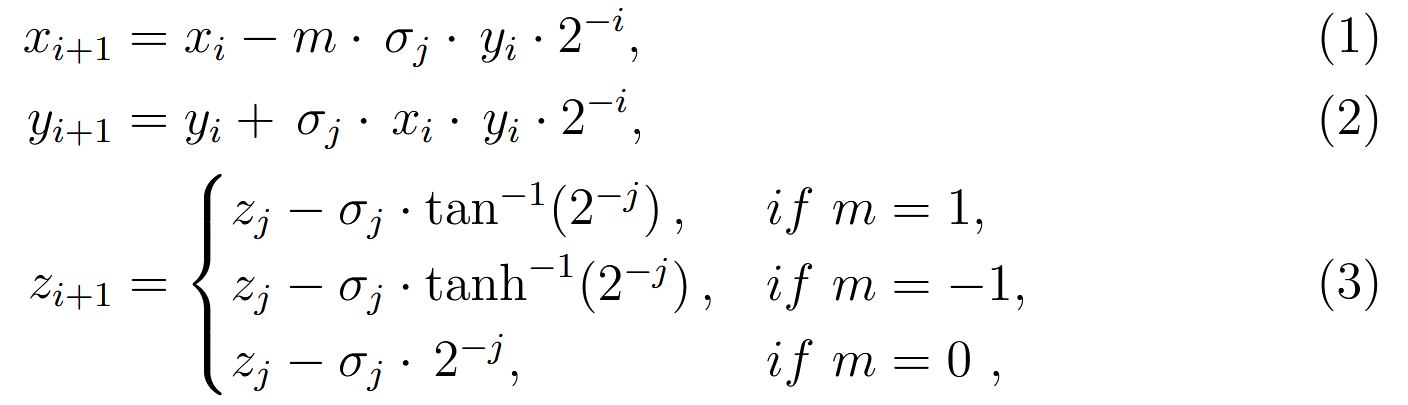
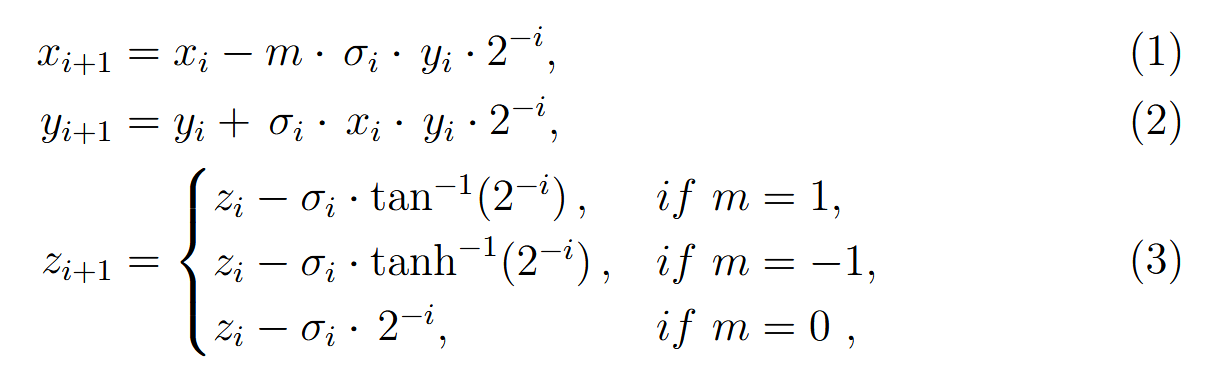
fixing typos, cordic equation was not consistent

diff --git a/docs/info.md b/docs/info.md
@@ -33,7 +33,7 @@ This algorithm is often covered in standard textbooks and notes [4, 5]; therefor
 Key ideas for using it : 
 - Inputs/outputs: provide initial ($x_0, y_0, z_0$) via registers (exposed as A, B and the third value is determined automatically). Every iteration, the output changes and provides some value  
 - In its most basic functionality, CORDIC has three distinct modes of operation: Circular (m = 1), Linear (m = 0) and Hyperbolic (m = -1). 
-- Each of these three modes has two submodes: this configures which of the values we will drive towards zero and is represented by $\sigma_j$. These modes are known as Rotation ($\sigma_{j} = sign(z_j)^{+}$) and Vectoring ($\sigma_{j} = -sign(y_j)^{+}$)
+- Each of these three modes has two submodes: this configures which of the values we will drive towards zero and is represented by $\sigma_j$. These modes are known as Rotation ($\sigma_{i} = sign(z_i)^{+}$) and Vectoring ($\sigma_{i} = -sign(y_i)^{+}$)
 
 
 ### Operating modes 
@@ -48,14 +48,14 @@ Let $A, B$ be the register inputs and $out1, out2$ the outputs.
 | 1    | Vectoring      |  a    | b |$K_{C} \sqrt{a^2+b^2}$|$tan^{-1}(\frac{b}{a})$|
 | 0    | Rotating     |   a    | b |$a \cdot b$| error $\epsilon$|
 | 0    | Vectoring |   a    | b | $\frac{b}{a}$| error $\epsilon$|
-| -1    | Rotating      |   a    | b | $cosh(a)$ | $sinh(a)$|
-| -1    | Vectoring     |   a    |  b | $K_{C} \sqrt{a^2 - b^2}$ |$tanh^{-1}(\frac{b}{a})$|
+| -1    | Rotating      |   a    | - | $cosh(a)$ | $sinh(a)$|
+| -1    | Vectoring     |   a    |  b | $K_{H} \sqrt{a^2 - b^2}$ |$tanh^{-1}(\frac{b}{a})$|
 | -1    | Vectoring    |   a + 1.0    | a - 1.0 |$2 K_{H}\sqrt{a}$|error $\epsilon$|
 
 ### Note about Scaling
 - The rotating path returns the values directly and can be interpreted right away (pre-scaling).
 - For vectoring, circular mode, the output has to be post-scaled. The output will be multiplied by the circular gain/constant $K_C \approx 1.646760$; therefore, to get the exact value, the user has to multiply by the inverse of that.  
-- Simillarly, hyperbolic rotating output values directly. Vectoring mode, however, outputs again values multiplied by  Hyperbolic gain/constant: $K_H \approx 1.207497$.  
+- Simillarly, hyperbolic rotating output values directly. Vectoring mode, however, outputs again values multiplied by Hyperbolic gain/constant: $K_H \approx 1.207497$.  
 - $\epsilon$ here can help check whether the output is correct or not. It should be close to 0 if the values are set correctly
 
 ### References
@@ -96,10 +96,10 @@ Document the registers that are used to interact with your peripheral
 
 | Address | Name         | Access | Description |
 |--------:|--------------|:------:|-------------|
-| 0x00    | config       |  R/W   | Control bits {is_rot, mode[1:0], en}. See §Config (0x00). |
+| 0x00    | config       |  R/W   | Control bits {is_rot, mode[1:0], start}. See §Config (0x00). |
 | 0x01    | input A      |   W    | Operand A (per-mode; see details). |
 | 0x02    | input B      |   W    | Operand B (per-mode; see details). |
-| 0x03    | 1.0 position |   W    | Q-format selector (e.g., 11 ⇒ Q5.11; 14 ⇒ Q2.14). |
+| 0x03    | 1.0 position |   W    | Q-format selector (e.g., 11 -> Q5.11; 14 -> Q2.14). |
 | 0x04    | output 1     |   R    | Primary result. |
 | 0x05    | output 2     |   R    | Secondary result / diagnostic. |
 | 0x06    | status       |   R    | 0=ready, 1=busy, 2=done. |
@@ -121,7 +121,7 @@ Document the registers that are used to interact with your peripheral
 -  __Linear and Rotating mode__: Multiplicand a represented in fixed point format. To control the position of 1.0, you need to use register 0x03. To give an example,  if register 0x03 is set to 11, this input (a) and input (b) represent the value in Q5.11 format.
 - __Linear and Vectoring mode__: Denominator a for $\frac{b}{a}$. Same Q-format for Linear Rotating mode.
 - __Hyperbolic and Rotating mode__ : Argument a for sinh / cosh. Represented as Q2.14. Range limitation : [-1.1161, 1.1161].  
-- __Hyperbolic and Vectoring mode__ :  first input a for $\sqrt{a^2 - b^2}$. The Output here can represent any fixed point __as long as it is greater than then second input B__ ($\sqrt{a^2 -b^2}$ becomes undefined then), because the Output is __not scaled__ (not multiplied by $K_{1}$ due to resource limitations). It is up to user to either multiply by $K_{1}\approx \frac{1}{0.82816} \approx 1.207496$ or use it the computed value of $K_{1} \sqrt{a^{2} - b^{2}}$. <br>
+- __Hyperbolic and Vectoring mode__ :  first input a for $\sqrt{a^2 - b^2}$. The Output here can represent any fixed point __as long as it is greater than then second input B__ ($\sqrt{a^2 -b^2}$ becomes undefined then), because the Output is __not scaled__ (not multiplied by inverse of $K_{H}$ due to resource limitations). It is up to user to either multiply by $\frac{1}{K_{H}} \approx \frac{1}{0.82816} \approx 1.207496$ or use it the computed value of $K_{H} \sqrt{a^{2} - b^{2}}$. <br>
 
 ### input B (0x02)
 - __Circular and Rotating mode__ : Ignored. 
@@ -129,17 +129,18 @@ Document the registers that are used to interact with your peripheral
 - __Linear and Rotating mode__: Multiplicand b in variable fixed point format: to control where the position of 1.0 is. To give an example,  if register 0x03 is set to 11, this input (a) and input (B) represent a value in Q5.11 format.
 - __Linear and Vectoring mode__: b represents Numerator ($\frac{b}{a}$) in variable fixed point format. To control the position of 1.0, you have to use register 0x03. To give an example,  if register 0x03 is set to 11, this input (b) and input (a) represent a value in Q5.11 format. 
 - __Hyperbolic and Rotating mode__ Ignored. 
-- __Hyperbolic and Vectoring mode__ :  Second value B for hyperbolic mode. This value must be smaller than A; otherwise, the result will be incorrect. The Output here can represent any fixed point. The Output is __not scaled__ (not multiplied by $K_{1}$ due to resource limitations). It is up to user to either multiply by $K_{1}\approx \frac{1}{0.82816} \approx 1.207496$ or use it the computed value of $K_{1} \sqrt{A^{2} - B^{2}}$.
+- __Hyperbolic and Vectoring mode__ :  Second value B for hyperbolic mode. This value must be smaller than A; otherwise, the result will be incorrect. The Output here can represent any fixed point. The Output is __not scaled__ (not multiplied by inverse of $K_{H}$ due to resource limitations). It is up to user to either multiply by $\frac{1}{K_{H}} \approx \frac{1}{0.82816} \approx 1.207496$ or use it the computed value of $K_{H} \sqrt{a^{2} - b^{2}}$.
 
 # Q-format (1.0 position) (0x03)
 - This value stores the number of fractional bits (for example, 10 -> Q6.10 in 16-bit mode). This register is used for linear modes and outputs in this format.
 
 ### Output 1 (0x04)
- - __Circular and Rotating mode__ : returns cos(a), stored in Q2.14 format. 
- -  __Circular and Vectoring mode__: returns $K_{C} \cdot \sqrt{A^2 + B^2}$ where $K_{C} = 1.64676$.
- -  __Linear and Rotating mode__: returns $A \cdot B$ in a fixed float format configured by the register 0x03. <br> - __Linear and Vectoring mode__: returns $\frac{B}{A}$ in a fixed float format by the register 0x03. 
- - __Hyperbolic and Rotating mode__ : returns cosh(A) stored in Q2.14 format. 
- - __Hyperbolic and Vectoring mode__ :  returns $K_{H} \cdot \sqrt{A^2 - B^2}$ where $K_{H} \approx 0.82816$. The Output is not scaled: this means that it is up to the programmer and software to interpret this value (with a consistent format of A, B and $K_H$, it's possible to get a wide range of fixed points) <br>
+- __Circular and Rotating mode__ : returns cos(a), stored in Q2.14 format. 
+-  __Circular and Vectoring mode__: returns $K_{C} \cdot \sqrt{A^2 + B^2}$ where $K_{C} = 1.64676$.
+-  __Linear and Rotating mode__: returns $A \cdot B$ in a fixed float format configured by the register 0x03. <br> 
+- __Linear and Vectoring mode__: returns $\frac{B}{A}$ in a fixed float format by the register 0x03. 
+- __Hyperbolic and Rotating mode__ : returns cosh(A) stored in Q2.14 format. 
+- __Hyperbolic and Vectoring mode__ :  returns $K_{H} \cdot \sqrt{A^2 - B^2}$ where $K_{H} \approx 0.82816$. The Output is not scaled: this means that it is up to the programmer and software to interpret this value (with a consistent format of A, B and $K_H$, it's possible to get a wide range of fixed points) <br>
 
 ### Output 2 (0x05)
 - __Circular and Rotating mode__ : returns sin(A), stored in Q2.14 format. 
